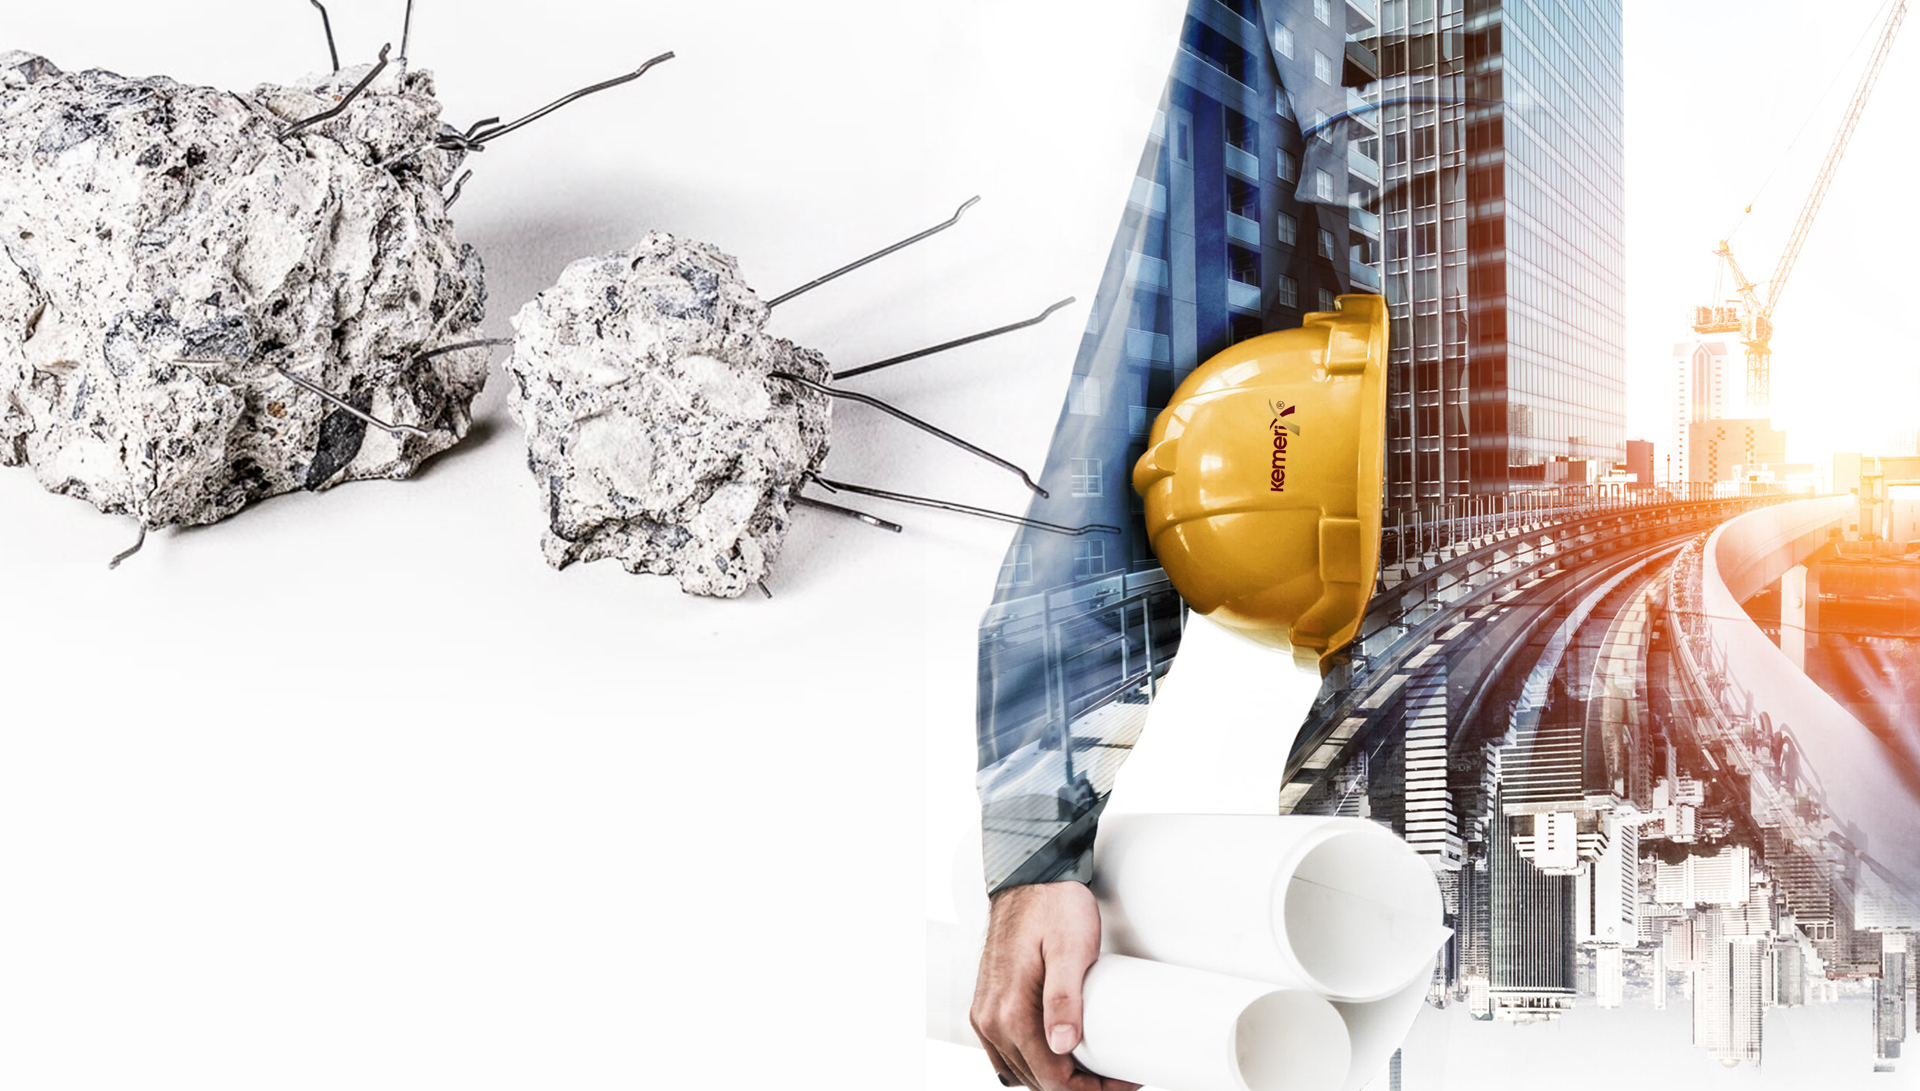
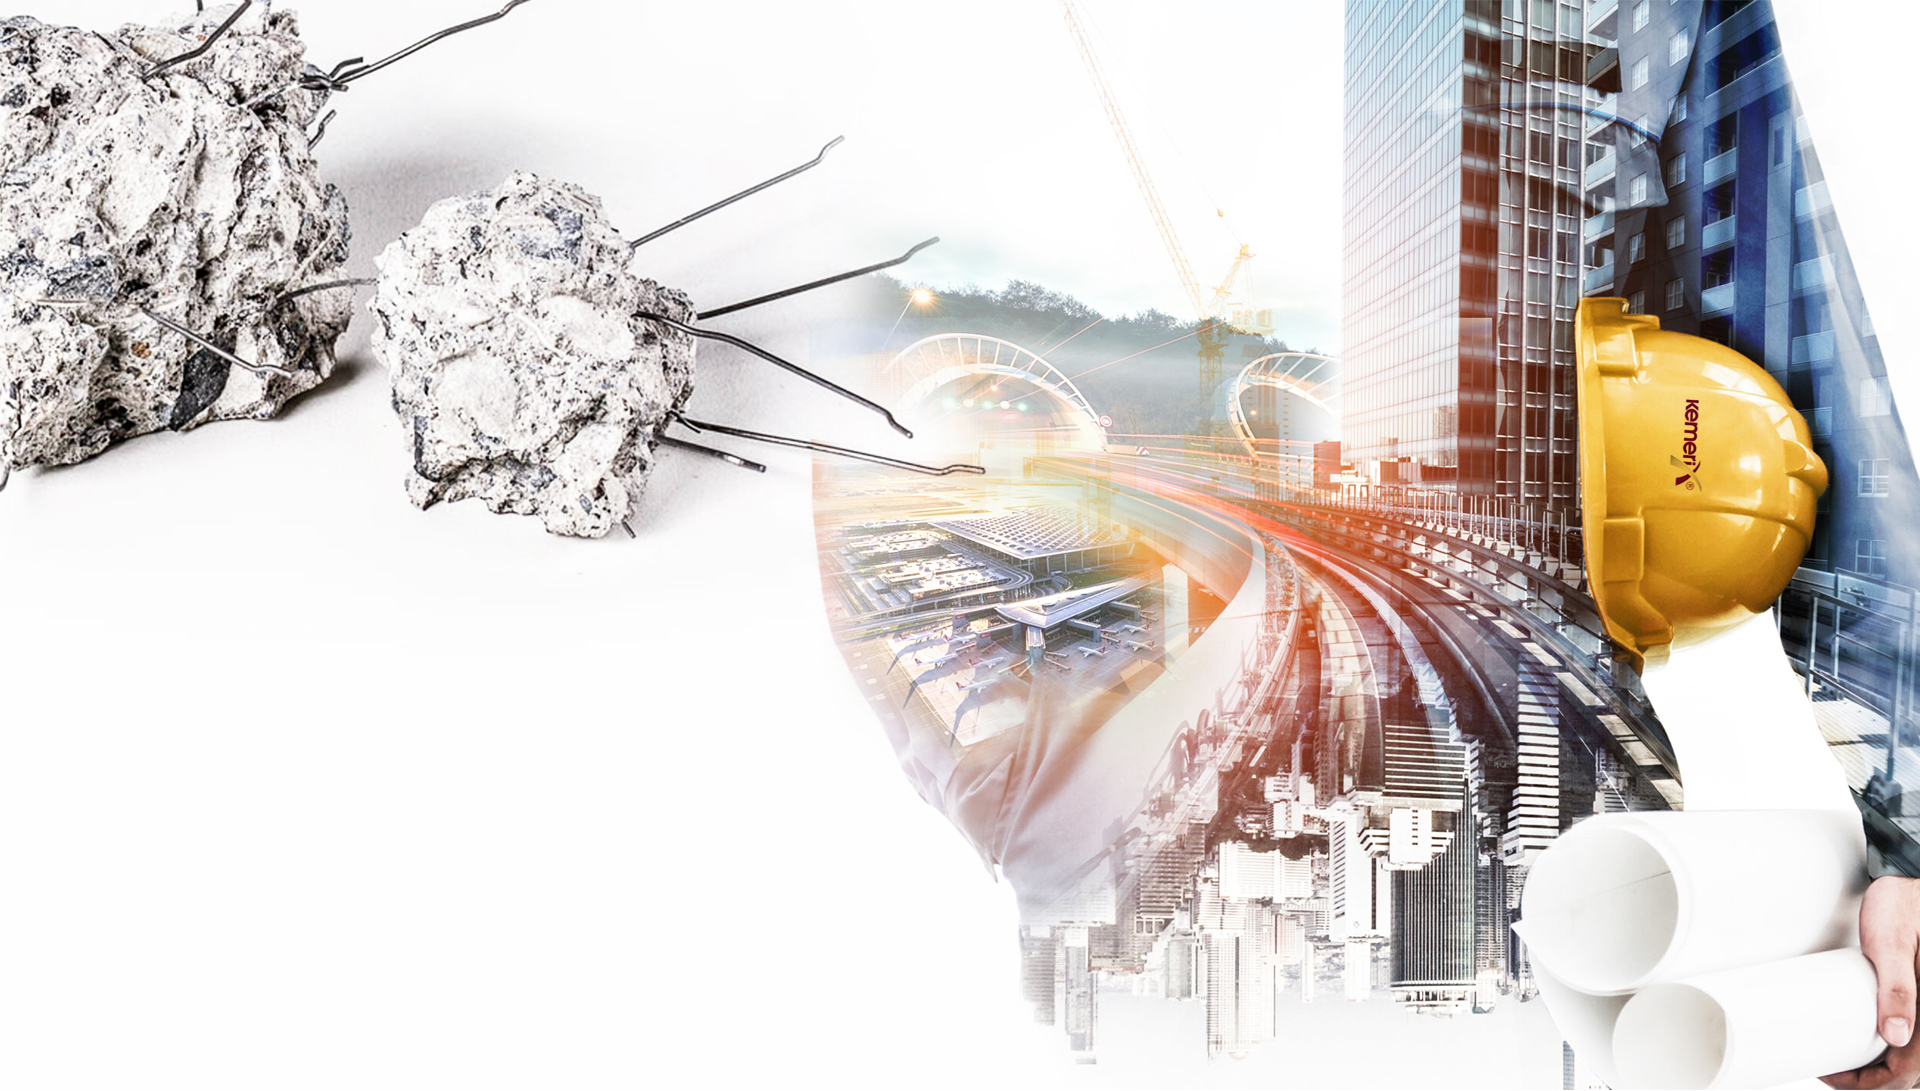
revizyonlar yapıldı

diff --git a/index-en.html b/index-en.html
@@ -60,7 +60,7 @@
             </div>
         </div>
         <div class="swiper-slide">
-            <div class="slide-inner" style="background-image:url('img/test.jpg')"></div>
+            <div class="slide-inner" style="background-image:url('img/Bannerlar/Kemex.jpg')"></div>
             <div class="slide-content">
                 <!-- <h1 data-sal-duration="500" data-sal="slide-down" data-sal-easing="ease-out-bounce" data-sal-delay="0">Konforunuzun Gizli</h1>
                 <h2 data-sal-duration="500" data-sal="slide-down" data-sal-easing="ease-out-bounce" data-sal-delay="200">Kahramanları!</h2>

diff --git a/index.html b/index.html
@@ -60,7 +60,7 @@
             </div>
         </div>
         <div class="swiper-slide">
-            <div class="slide-inner" style="background-image:url('img/test.jpg')"></div>
+            <div class="slide-inner" style="background-image:url('img/Bannerlar/Kemex.jpg')"></div>
             <div class="slide-content">
                 <!-- <h1 data-sal-duration="500" data-sal="slide-down" data-sal-easing="ease-out-bounce" data-sal-delay="0">Konforunuzun Gizli</h1>
                 <h2 data-sal-duration="500" data-sal="slide-down" data-sal-easing="ease-out-bounce" data-sal-delay="200">Kahramanları!</h2>
